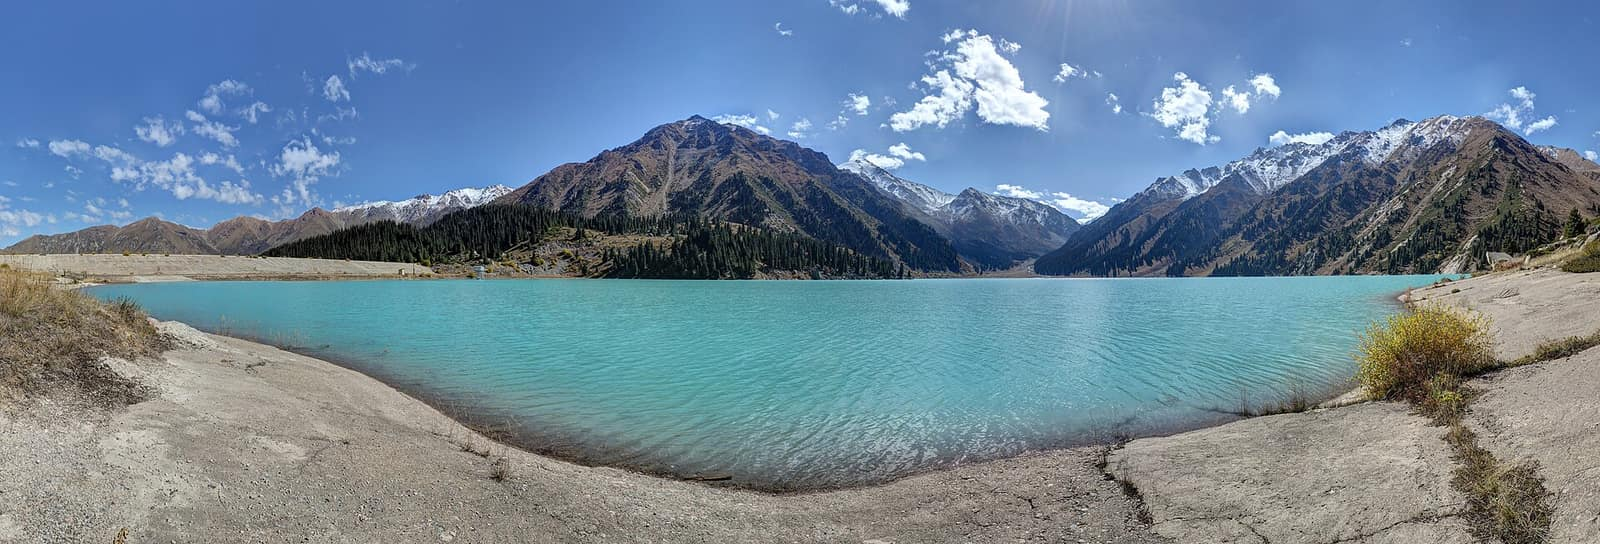
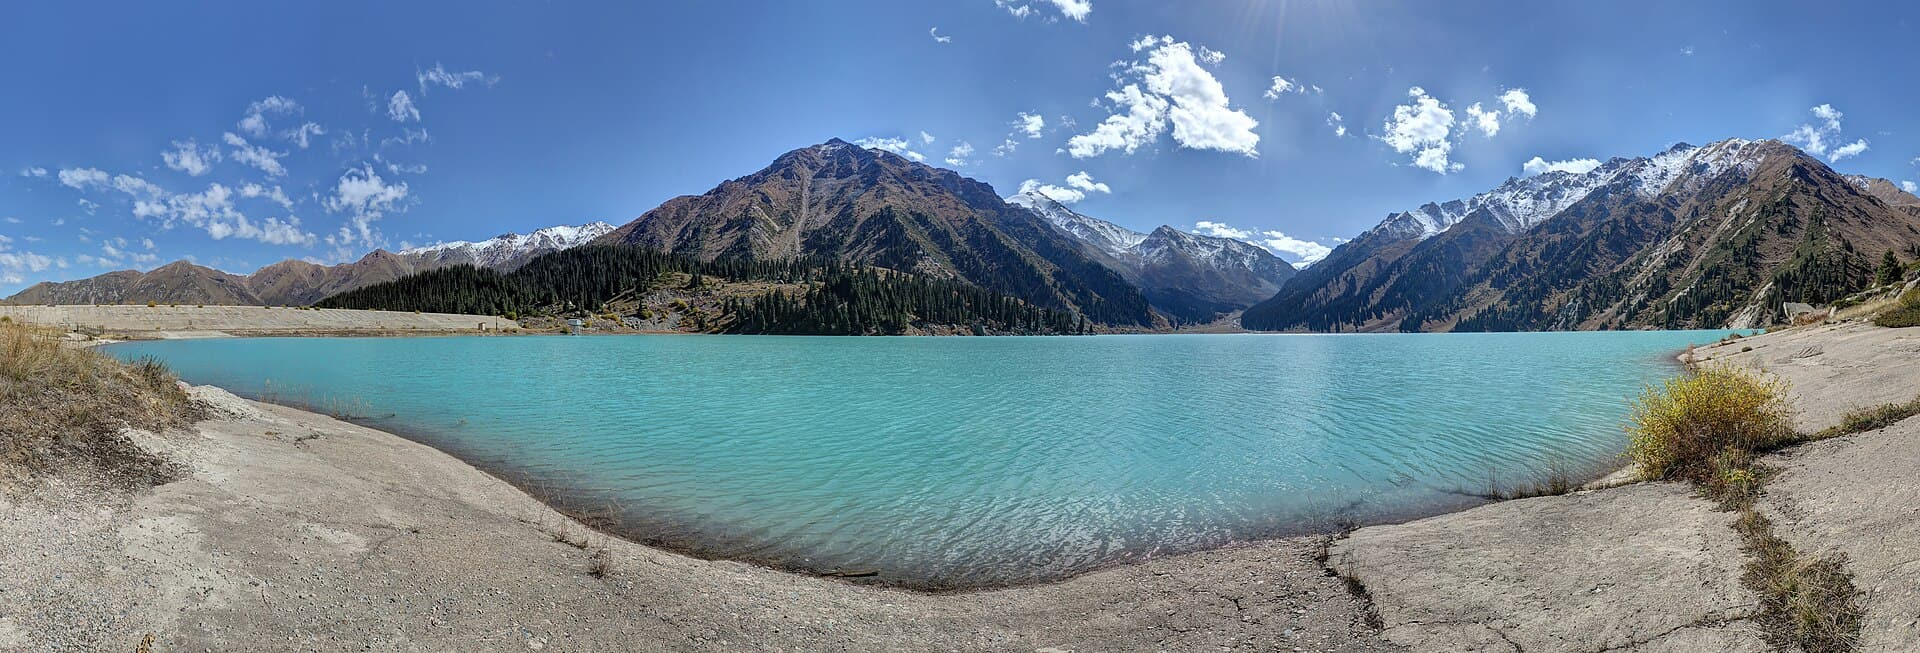
Polish the hero: sharper image, shorter H1, better text contrast
- Restore full-bleed background photos to native 1920px. The earlier
  compression pass downscaled them to 1600px, which upscaled and looked
  soft on wide screens. Still compressed: folder is 3.9MB vs 9.7MB before.
- Shorten the H1 back to "Discover the best of Kazakhstan". The longer
  SEO variant wrapped to three lines and duplicated the kicker directly
  above it; the keyword remains in the kicker, meta title and lead.
- Rebalance the hero gradient and add a subtle text-shadow so the
  headline stays crisp without dulling the turquoise water.

diff --git a/src/i18n/ui.ts b/src/i18n/ui.ts
@@ -119,7 +119,7 @@ const en = {
   'month.august': 'August',
 
   'hero.kicker': 'Group & private tours from Almaty · Kazakhstan',
-  'hero.title': 'Discover the best of Kazakhstan — tours from Almaty',
+  'hero.title': 'Discover the best of Kazakhstan',
   'hero.sub':
     'Almatrips runs group and private tours from Almaty to Kazakhstan’s most beautiful places — canyons, alpine lakes, mountains, nomad plateaus, national parks and cultural destinations.',
   'hero.cta': 'Browse tours',
@@ -316,7 +316,7 @@ const ru: typeof en = {
   'month.august': 'Август',
 
   'hero.kicker': 'Групповые и индивидуальные туры из Алматы · Казахстан',
-  'hero.title': 'Откройте лучшее в Казахстане — туры из Алматы',
+  'hero.title': 'Откройте лучшее в Казахстане',
   'hero.sub':
     'Almatrips проводит групповые и индивидуальные туры из Алматы к самым красивым местам Казахстана — каньоны, горные озёра, горы, кочевые плато, нацпарки и культурные места.',
   'hero.cta': 'Смотреть туры',

diff --git a/src/styles/global.css b/src/styles/global.css
@@ -249,7 +249,7 @@ p { margin: 0 0 1em; }
   position: absolute;
   inset: 0;
   background:
-    linear-gradient(180deg, rgba(15, 28, 33, 0.25) 0%, rgba(15, 28, 33, 0.05) 35%, rgba(15, 28, 33, 0.72) 100%),
+    linear-gradient(180deg, rgba(15, 28, 33, 0.34) 0%, rgba(15, 28, 33, 0.08) 34%, rgba(15, 28, 33, 0.38) 66%, rgba(15, 28, 33, 0.78) 100%),
     var(--hero-image) center / cover no-repeat;
   z-index: -1;
 }
@@ -260,7 +260,9 @@ p { margin: 0 0 1em; }
   max-width: 720px;
 }
 
-.hero .kicker { color: #ffd9c4; }
+.hero .kicker { color: #ffd9c4; text-shadow: 0 1px 8px rgba(15, 28, 33, 0.45); }
+
+.hero h1 { text-shadow: 0 2px 18px rgba(15, 28, 33, 0.35); }
 
 .hero p.lead {
   font-size: 1.12rem;
